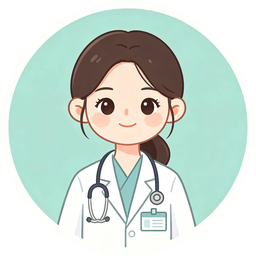
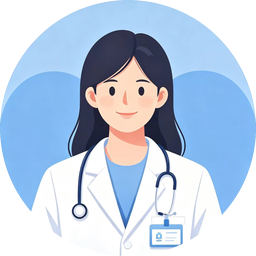
feat(界面): 首页背景换校医院实景照，医生头像换新版男女医生（v34）

diff --git a/web/style.css b/web/style.css
@@ -535,34 +535,27 @@ body { background: #eef4fb; }
 }
 .hero-photo {
   position: absolute; inset: 0;
-  background: linear-gradient(160deg, #eaf4ff 0%, #f6fbff 55%, #ffffff 100%);
+  background: url('img/hospital.jpg') center 34% / cover no-repeat;
   overflow: hidden;
 }
-/* 红十字：竖条 */
+/* 底部白色渐变带，保证标语清晰 */
 .hero-photo::before {
   content: "";
-  position: absolute; left: 50%; top: 33%;
-  width: 28px; height: 94px;
-  transform: translate(-50%, -50%);
-  background: linear-gradient(180deg, #ef5350, #d32f2f);
-  border-radius: 7px;
-  box-shadow: 0 6px 16px rgba(211, 47, 47, .2);
-  opacity: .9;
+  position: absolute; inset: 0;
+  background: linear-gradient(180deg,
+    rgba(255, 255, 255, 0) 0%,
+    rgba(255, 255, 255, 0.10) 44%,
+    rgba(255, 255, 255, 0.86) 60%,
+    #ffffff 72%,
+    #ffffff 100%);
 }
-/* 红十字：横条 */
-.hero-photo::after {
-  content: "";
-  position: absolute; left: 50%; top: 33%;
-  width: 94px; height: 28px;
-  transform: translate(-50%, -50%);
-  background: linear-gradient(180deg, #ef5350, #d32f2f);
-  border-radius: 7px;
-  opacity: .9;
-}
+/* 实景照不留红十字 */
+.hero-photo::after { content: none; }
+
 .slogan {
   position: absolute; left: 18px; bottom: 40px;
-  font-size: 23px; font-weight: 800; letter-spacing: 1.5px; color: #17304d;
-  text-shadow: 0 1px 0 rgba(255,255,255,.85);
+  font-size: 23px; font-weight: 800; letter-spacing: 1.5px; color: #12304d;
+  text-shadow: 0 2px 8px rgba(255, 255, 255, .95), 0 1px 0 rgba(255, 255, 255, .9);
 }
 .slogan-bar {
   position: absolute; left: 20px; bottom: 26px;

diff --git a/web/index.html b/web/index.html
@@ -5,7 +5,7 @@
 <meta name="viewport" content="width=device-width, initial-scale=1, maximum-scale=1, user-scalable=no" />
 <meta name="theme-color" content="#1a73e8" />
 <title>校医通 · 郑州大学校医院门诊预约</title>
-<link rel="stylesheet" href="style.css?v=33" />
+<link rel="stylesheet" href="style.css?v=34" />
 </head>
 <body>
 <header class="topbar">
@@ -25,6 +25,6 @@
 
 <div class="toast" id="toast" hidden></div>
 
-<script src="app.js?v=33"></script>
+<script src="app.js?v=34"></script>
 </body>
 </html>
